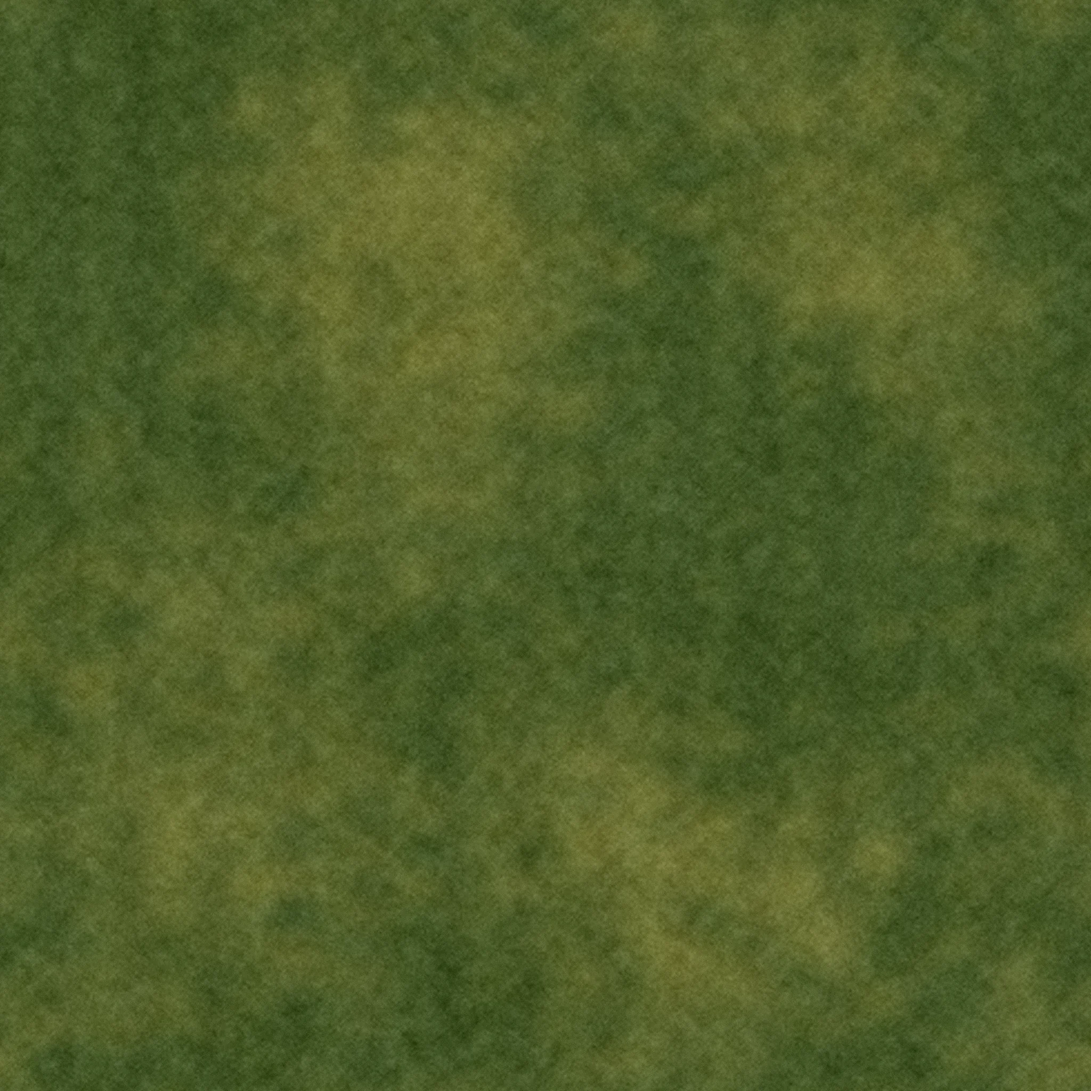
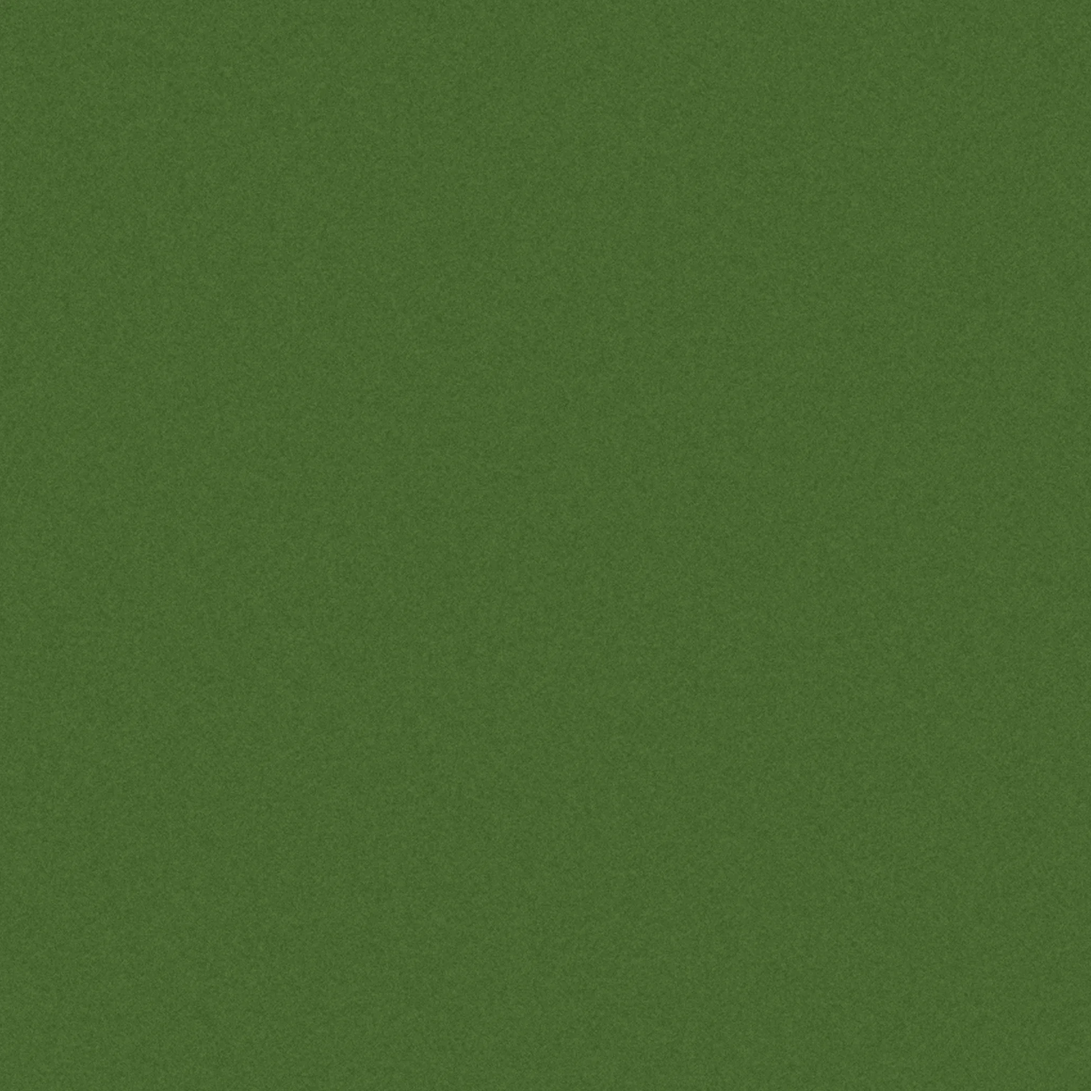
Airfield grass texture v2 from the designer; surrounding grass belt uses its mean colour
Claude-Session: https://claude.ai/code/session_01RoqHu2TiYBxYCF6HuHvMh8

diff --git a/web/js/terrain.js b/web/js/terrain.js
@@ -83,7 +83,7 @@ export class Terrain {
     if (h > 1650 + n * 150) c.lerp(new THREE.Color(0.95, 0.94, 0.92), Math.min((h - 1650) / 250, 1));
     if (h < -1) c.setRGB(0.6, 0.54, 0.42);
     const g = this.nearAirport(x, z);
-    if (g > 0) c.lerp(new THREE.Color(0x6e8c52), g * 0.92);
+    if (g > 0) c.lerp(new THREE.Color(0x496631), g * 0.92);   // mean colour of tex_airfield_grass
     return c;
   }
   build(scene, low) {

diff --git a/docs/PROJECT_LOG.md b/docs/PROJECT_LOG.md
@@ -44,6 +44,7 @@
 | 17 | **تركيب رسومات المصمّم** | 11 مجسم CMN + 3 طائرات + 5 مركبات + 7 خامات أرضيات، كلها بالقياس المطلوب، وُضعت كما هي. مشاركة الخامات المتطابقة بين الملفات (ذاكرة الخامات 159 MB بدل ≈ 1.6 GB) |
 | 18 | **أمر رسومات باقي المطارات** | 13 مجسمًا + خامة عشب جديدة (`docs/ASSET_REQUESTS.md` القسم 7)، مخططان لكل مطار في `docs/reference/`، المنافذ موصولة، وإعادة استعمال الجسر والحظيرة والمطافئ والبرج وخزانات CMN حيث تطابق القياس |
 | 19 | **تركيب رسومات باقي المطارات** | 13 مجسمًا (مباني ركاب RAK/AGA/FEZ/OUD/TNG، ذراع ومرآب TNG، برجان، إدارتان، خزانات 4 و2) بالقياس المطلوب، وُضعت كما هي |
+| 20 | **خامة العشب نسخة 2** | بلا بقع كبيرة ولا تكرار ظاهر؛ لون العشب حول المطارات صار بمتوسط لون الخامة (#496631) |
 
 ---
 
